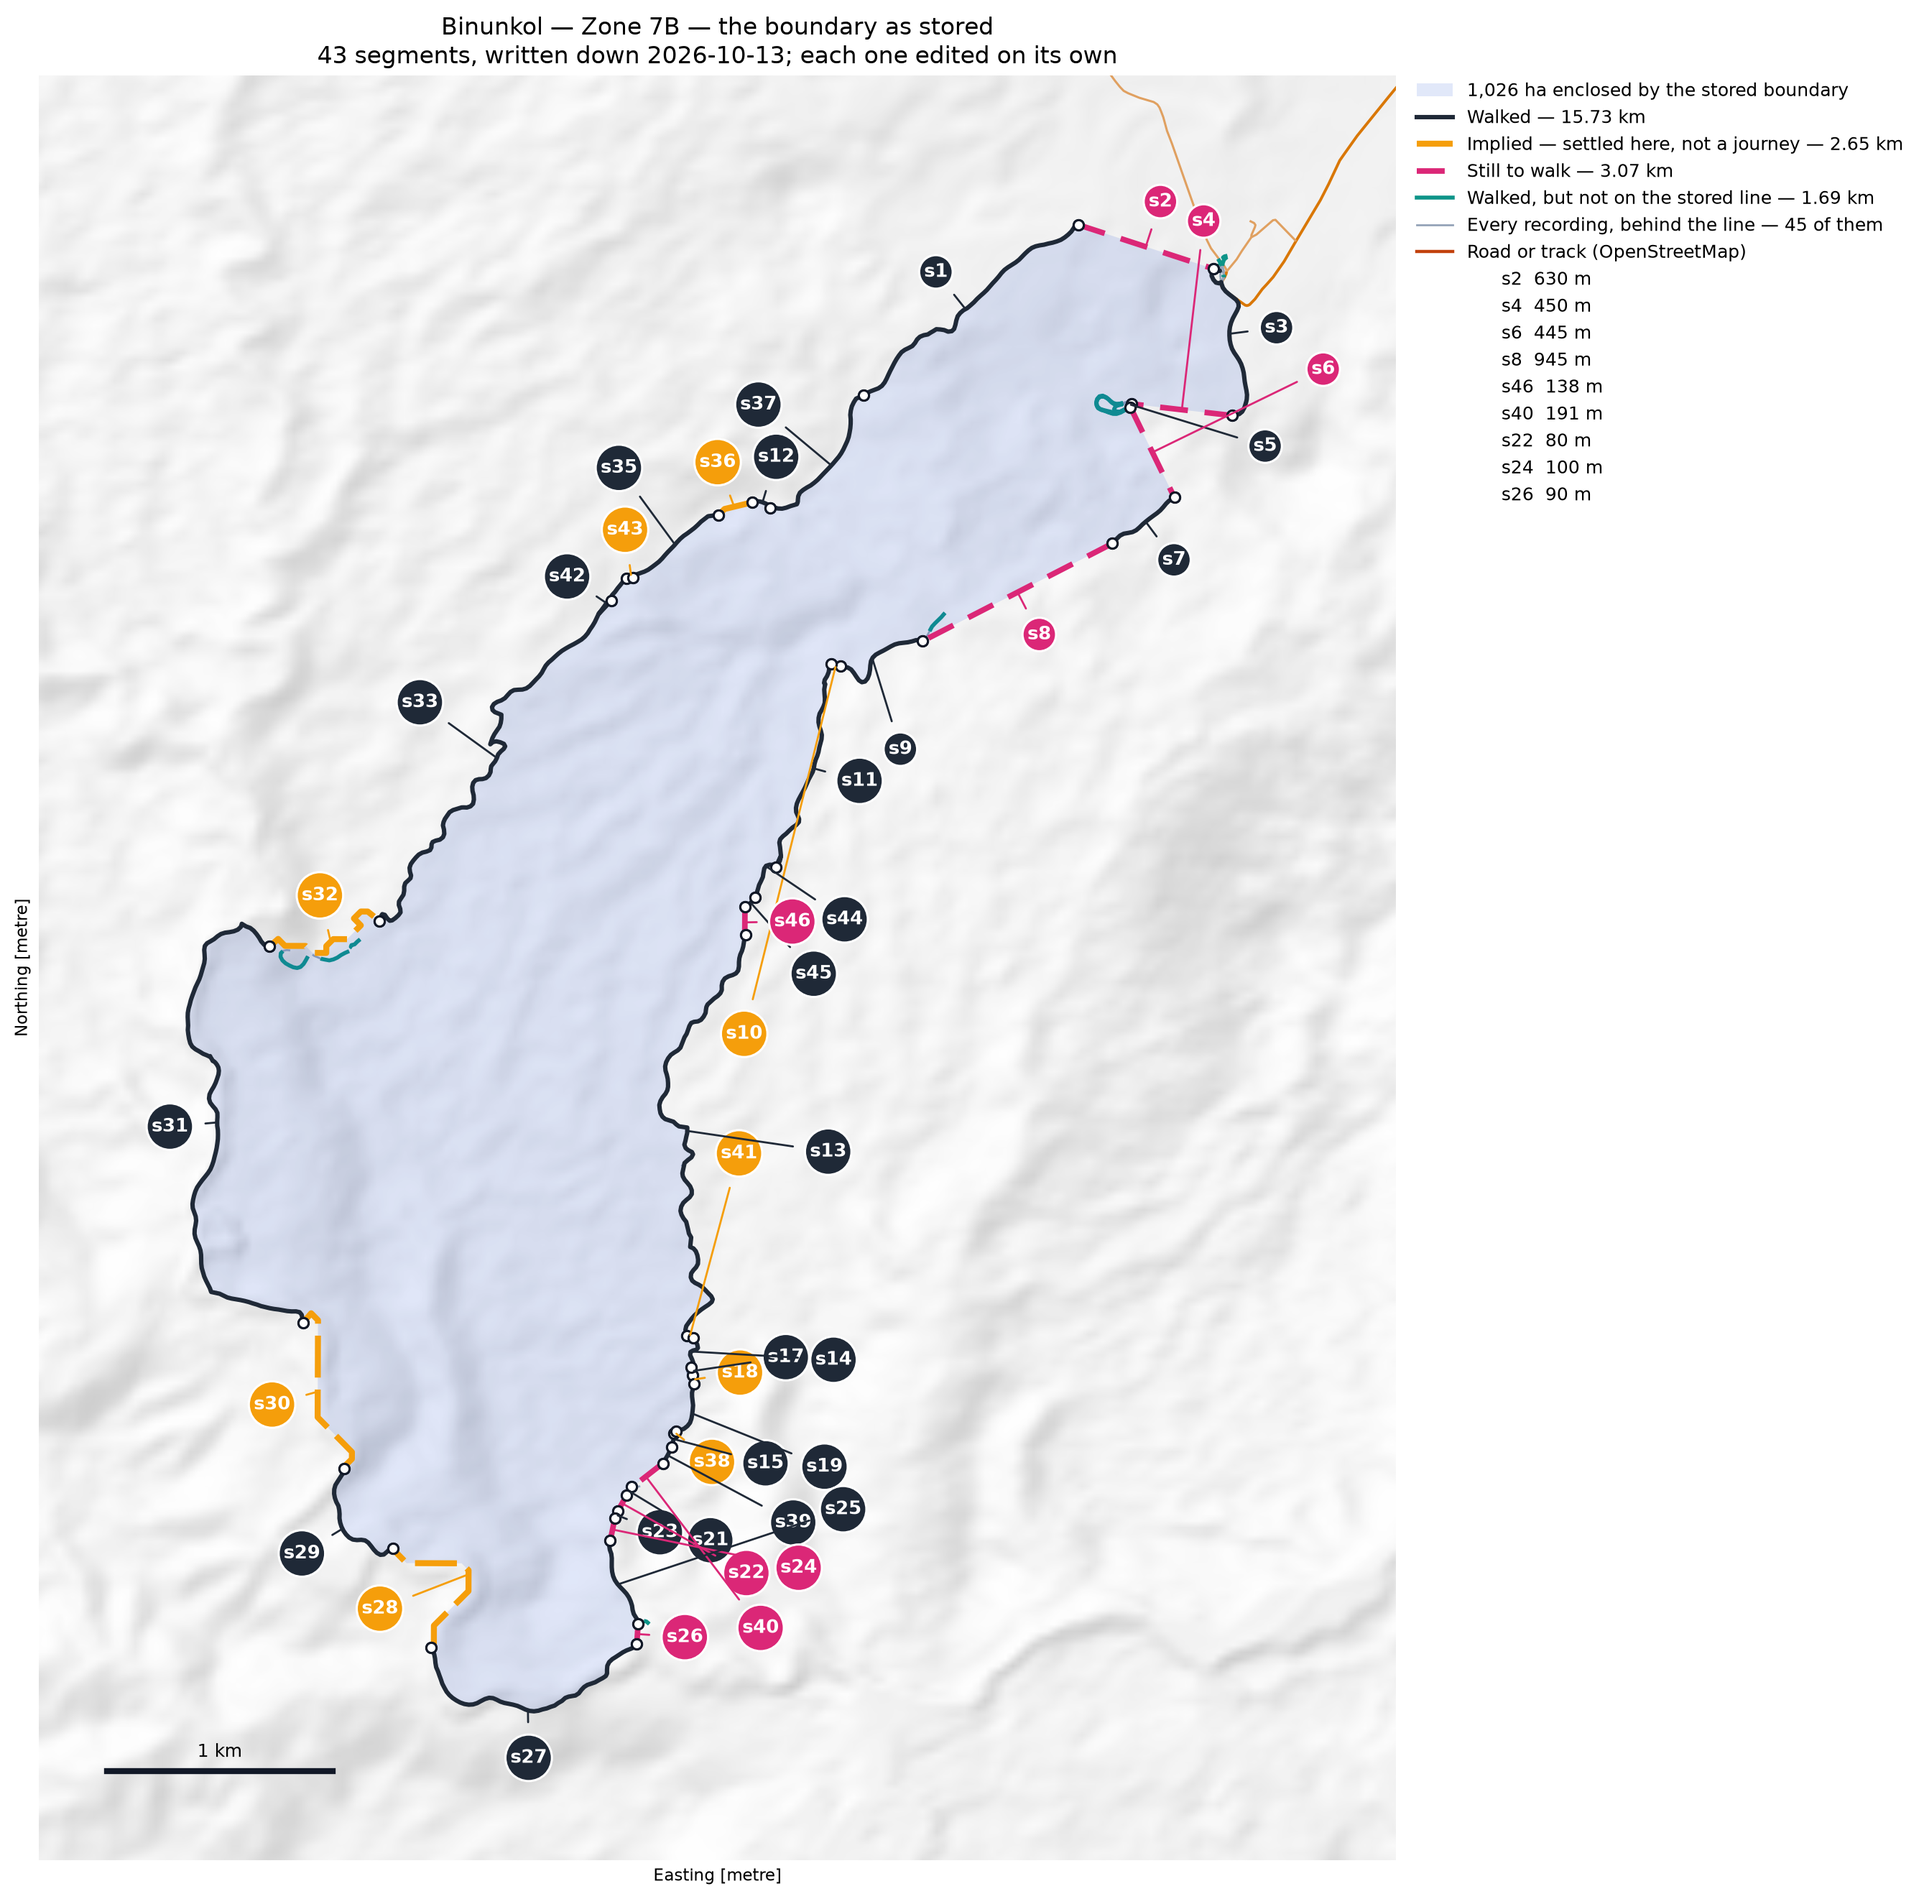
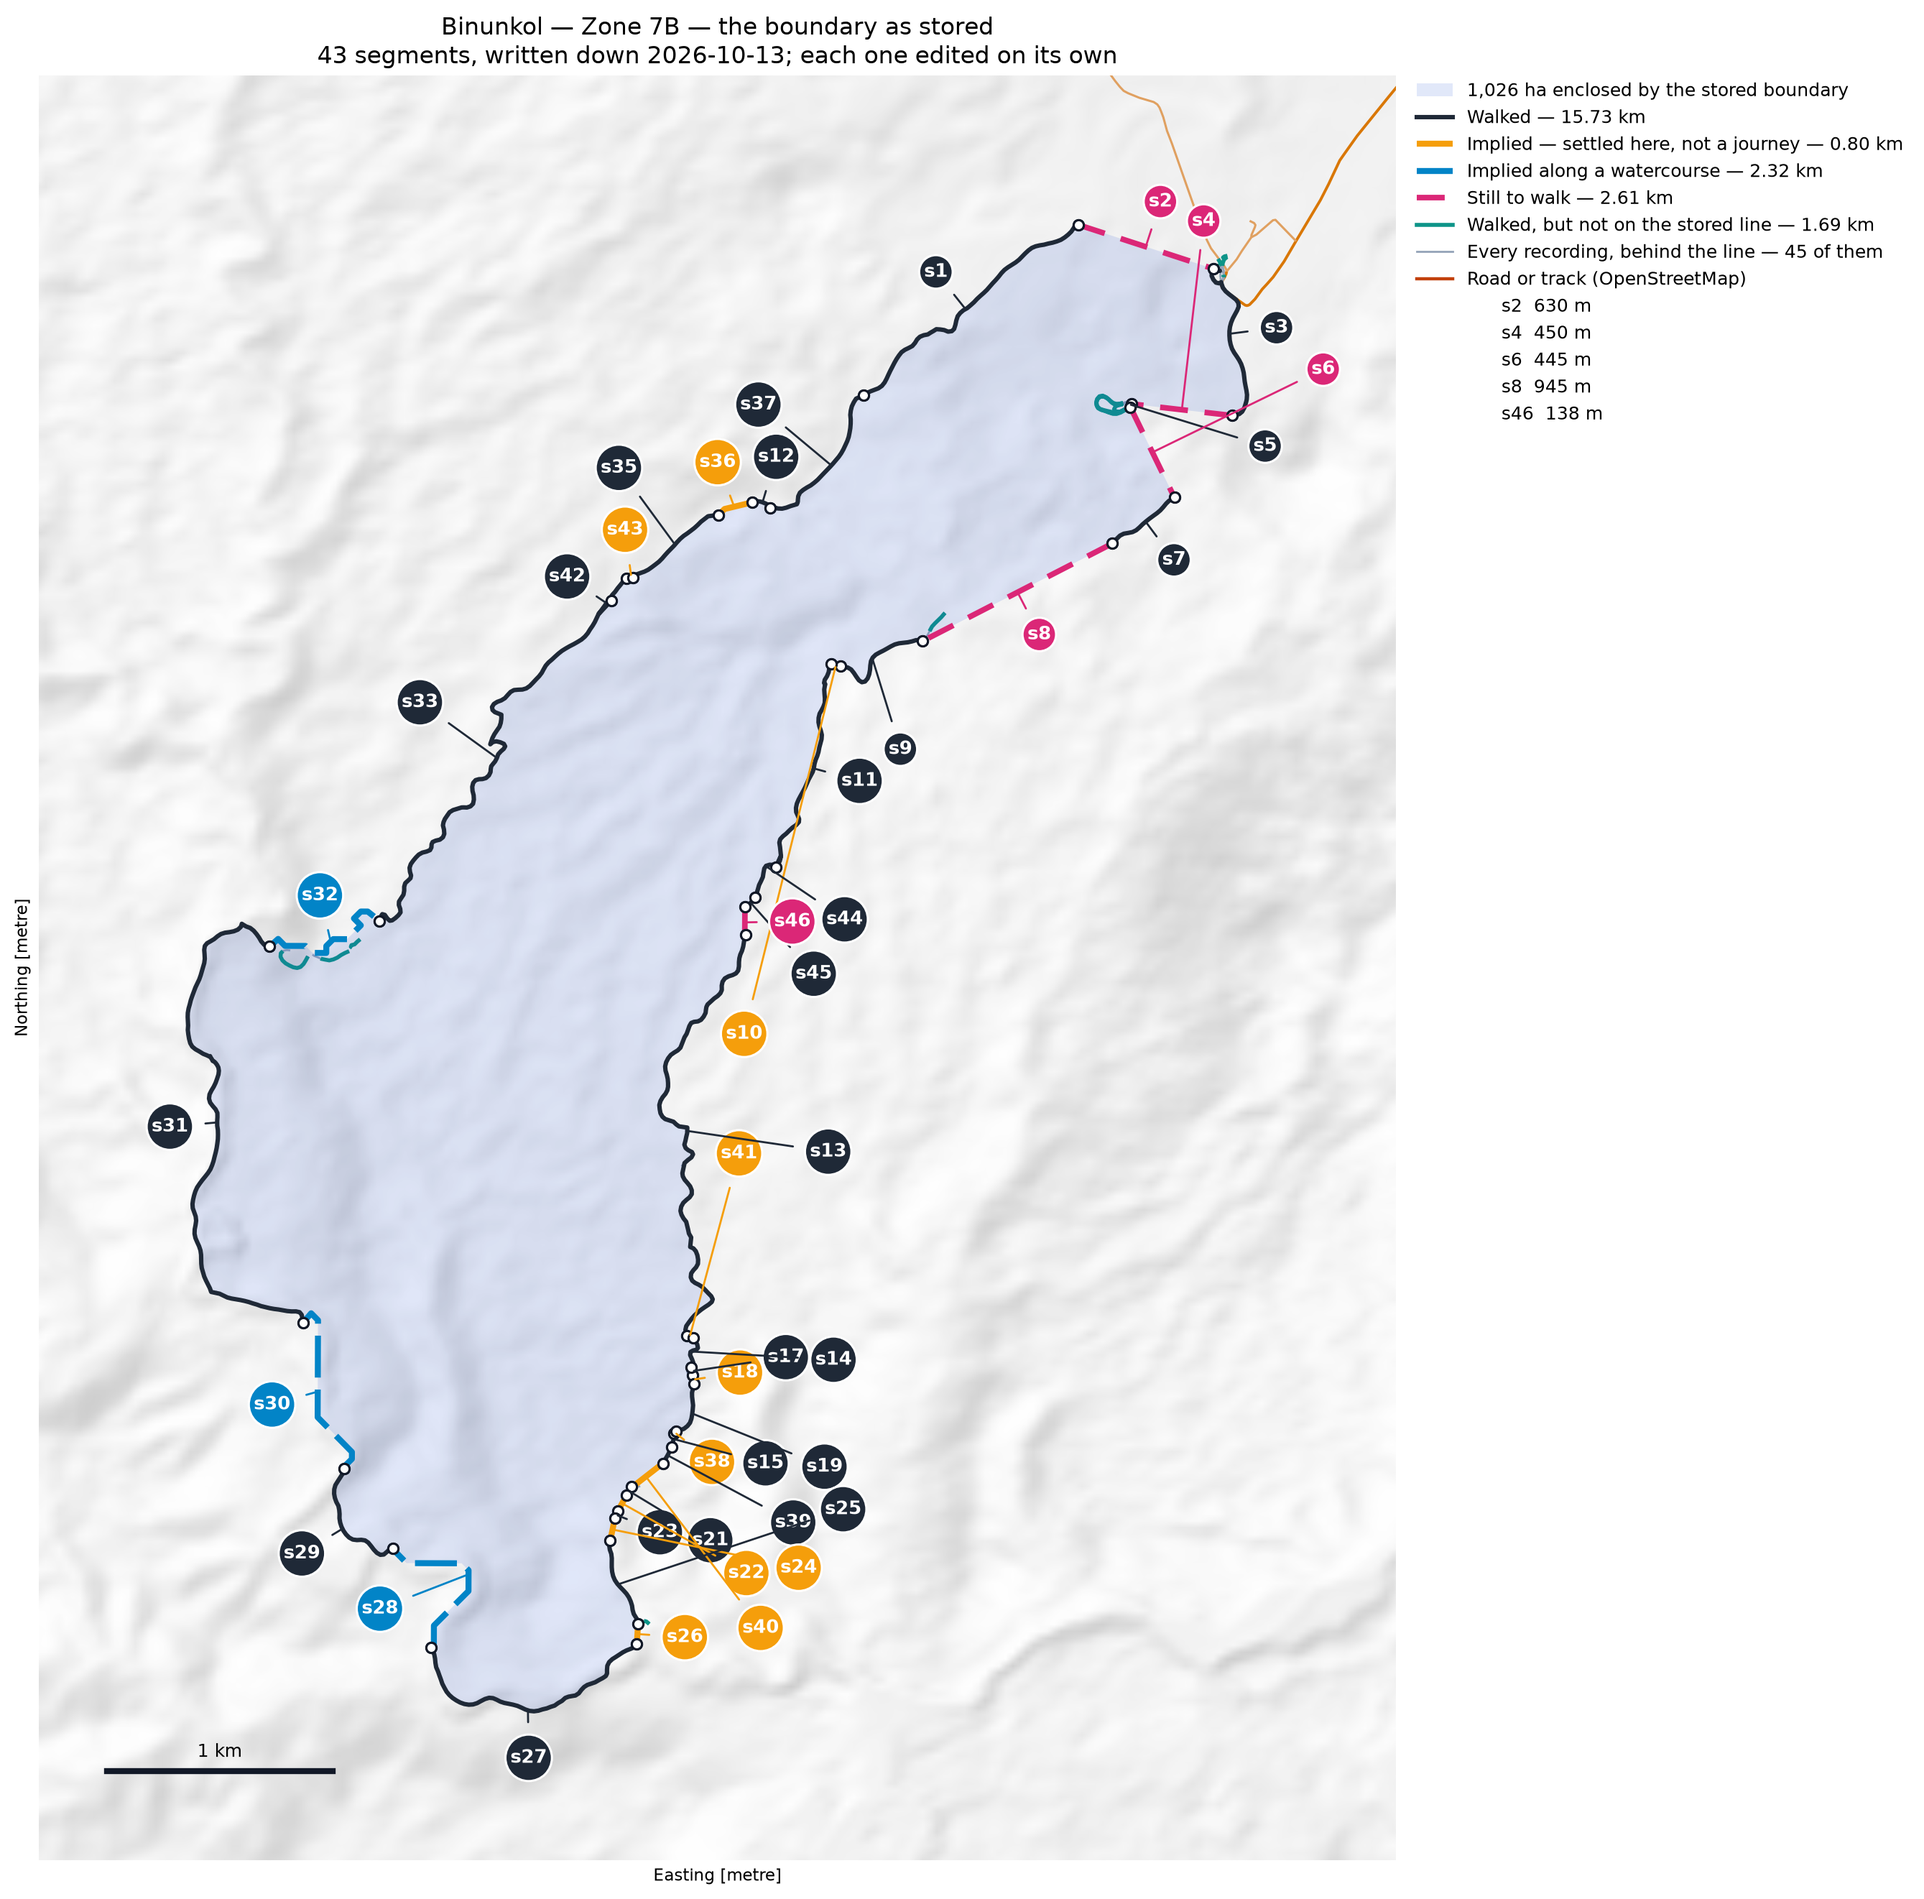
Binunkol in the report; a line implied along water is drawn differently
s22, s24, s26 and s40 settled by the reviewer.

A segment implied because it follows a watercourse is a different
claim from one implied because it is too short to send anyone to
walk, and the map was saying they were the same. follow_river now
records basis='river' on the segment, the stored map draws those in
blue, and the legend counts them separately: Binunkol has 2.32 km
along water and 0.80 km settled.

43 segments, 15.73 km walked, 2.61 km to walk, 1,026.0 ha.

Claude-Session: https://claude.ai/code/session_01K6X75MkuiGQ9rmgDZx45vk

diff --git a/scripts/boundary.py b/scripts/boundary.py
@@ -294,7 +294,9 @@ def summary(book: dict) -> str:
     drawn = sum(s["length_m"] for s in book["segments"]
                 if s["kind"] == "drawn")
     implied = sum(s["length_m"] for s in book["segments"]
-                  if s["kind"] == "implied")
+                  if s["kind"] == "implied" and s.get("basis") != "river")
+    river = sum(s["length_m"] for s in book["segments"]
+                if s["kind"] == "implied" and s.get("basis") == "river")
     land = ring_geometry(book)
     out = [f"{book['unit']}   written down {book['solved']}",
            f"  {len(book['segments'])} segments, "
@@ -416,11 +418,17 @@ def draw(book: dict, out: Path, near=None):
     if land is not None:
         gpd.GeoSeries([land], crs=dataio.METRIC_CRS).plot(
             ax=axis, color="#1d4ed8", alpha=0.13, edgecolor="none", zorder=2)
+    # A line implied because it follows a watercourse is a different
+    # claim from one implied because it is too short to send anyone to
+    # walk, and the map should not say they are the same.
     paint = {"walked": ("#1f2937", 2.2, "-"),
              "implied": ("#f59e0b", 3.0, (0, (7, 2))),
+             "river": ("#0284c7", 3.0, (0, (7, 2))),
              "drawn": ("#db2777", 2.8, (0, (5, 3)))}
     for seg, line in lines:
-        colour, width, dash = paint.get(seg["kind"], paint["drawn"])
+        look = ("river" if seg["kind"] == "implied"
+                and seg.get("basis") == "river" else seg["kind"])
+        colour, width, dash = paint.get(look, paint["drawn"])
         axis.plot(*line.xy, color=colour, lw=width, linestyle=dash,
                   zorder=5 if seg["kind"] == "walked" else 6)
     step = (window[2] - window[0]) * 0.035
@@ -467,7 +475,9 @@ def draw(book: dict, out: Path, near=None):
             spot = Point(middle.x - dy / span * step,
                          middle.y + dx / span * step)
         placed.append(spot)
-        colour = paint.get(seg["kind"], paint["drawn"])[0]
+        colour = paint.get("river" if seg["kind"] == "implied"
+                           and seg.get("basis") == "river" else seg["kind"],
+                           paint["drawn"])[0]
         axis.annotate(seg["id"], (middle.x, middle.y),
                       xytext=(spot.x, spot.y), fontsize=9.5,
                       fontweight="bold", color="white", ha="center",
@@ -495,7 +505,9 @@ def draw(book: dict, out: Path, near=None):
     drawn = sum(s["length_m"] for s in book["segments"]
                 if s["kind"] == "drawn")
     implied = sum(s["length_m"] for s in book["segments"]
-                  if s["kind"] == "implied")
+                  if s["kind"] == "implied" and s.get("basis") != "river")
+    river = sum(s["length_m"] for s in book["segments"]
+                if s["kind"] == "implied" and s.get("basis") == "river")
     handles = [
         plt.Rectangle((0, 0), 1, 1, facecolor="#1d4ed8", alpha=0.13,
                       edgecolor="none",
@@ -506,6 +518,8 @@ def draw(book: dict, out: Path, near=None):
         Line2D([0], [0], color="#f59e0b", lw=3.0, linestyle=(0, (7, 2)),
                label=f"Implied — settled here, not a journey — "
                      f"{implied / 1000:.2f} km"),
+        Line2D([0], [0], color="#0284c7", lw=3.0, linestyle=(0, (7, 2)),
+               label=f"Implied along a watercourse — {river / 1000:.2f} km"),
         Line2D([0], [0], color="#db2777", lw=2.8, linestyle=(0, (5, 3)),
                label=f"Still to walk — {drawn / 1000:.2f} km"),
     ]
@@ -790,6 +804,7 @@ def follow_river(book: dict, seg_id: str, reach: float = 250.0,
                 f"{date.today().isoformat()}: was {seg['length_m']:.0f} m "
                 f"drawn straight; laid along the watercourse instead"
                 + (f" — {note}" if note else ""))
+            seg["basis"] = "river"
             seg["wkt"] = made.wkt
             seg["length_m"] = round(made.length, 1)
             return seg
@@ -830,6 +845,7 @@ def follow_river(book: dict, seg_id: str, reach: float = 250.0,
         f"{date.today().isoformat()}: was {seg['length_m']:.0f} m drawn "
         f"straight; laid along the watercourse instead"
         + (f" — {note}" if note else ""))
+    seg["basis"] = "river"
     seg["wkt"] = made.wkt
     seg["length_m"] = round(made.length, 1)
     return seg
